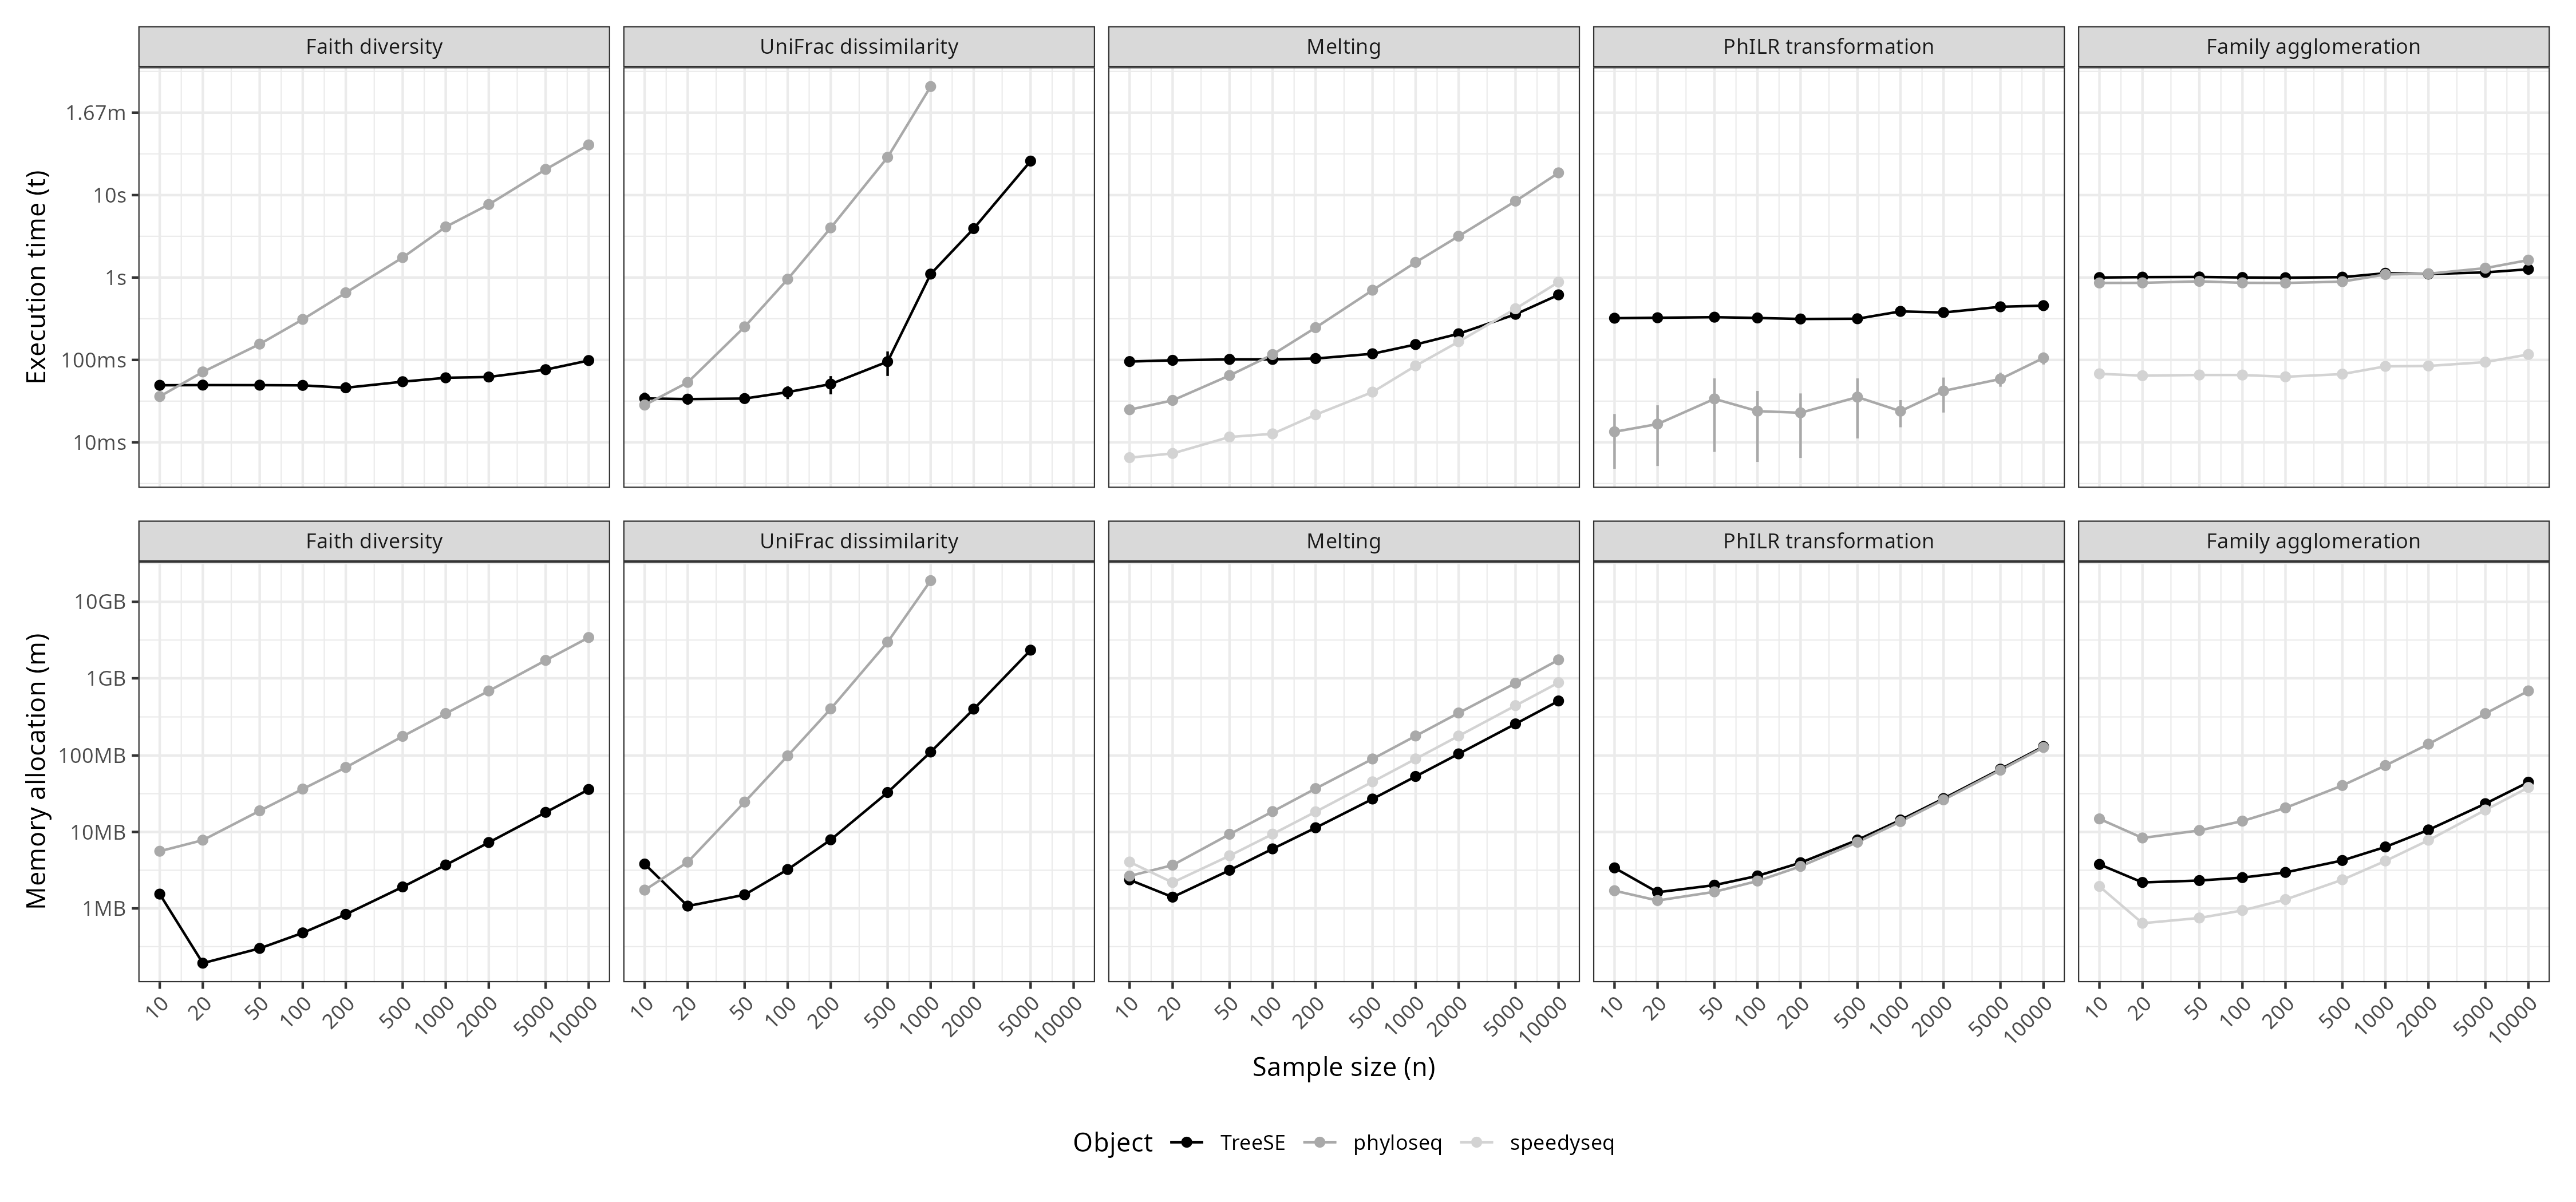
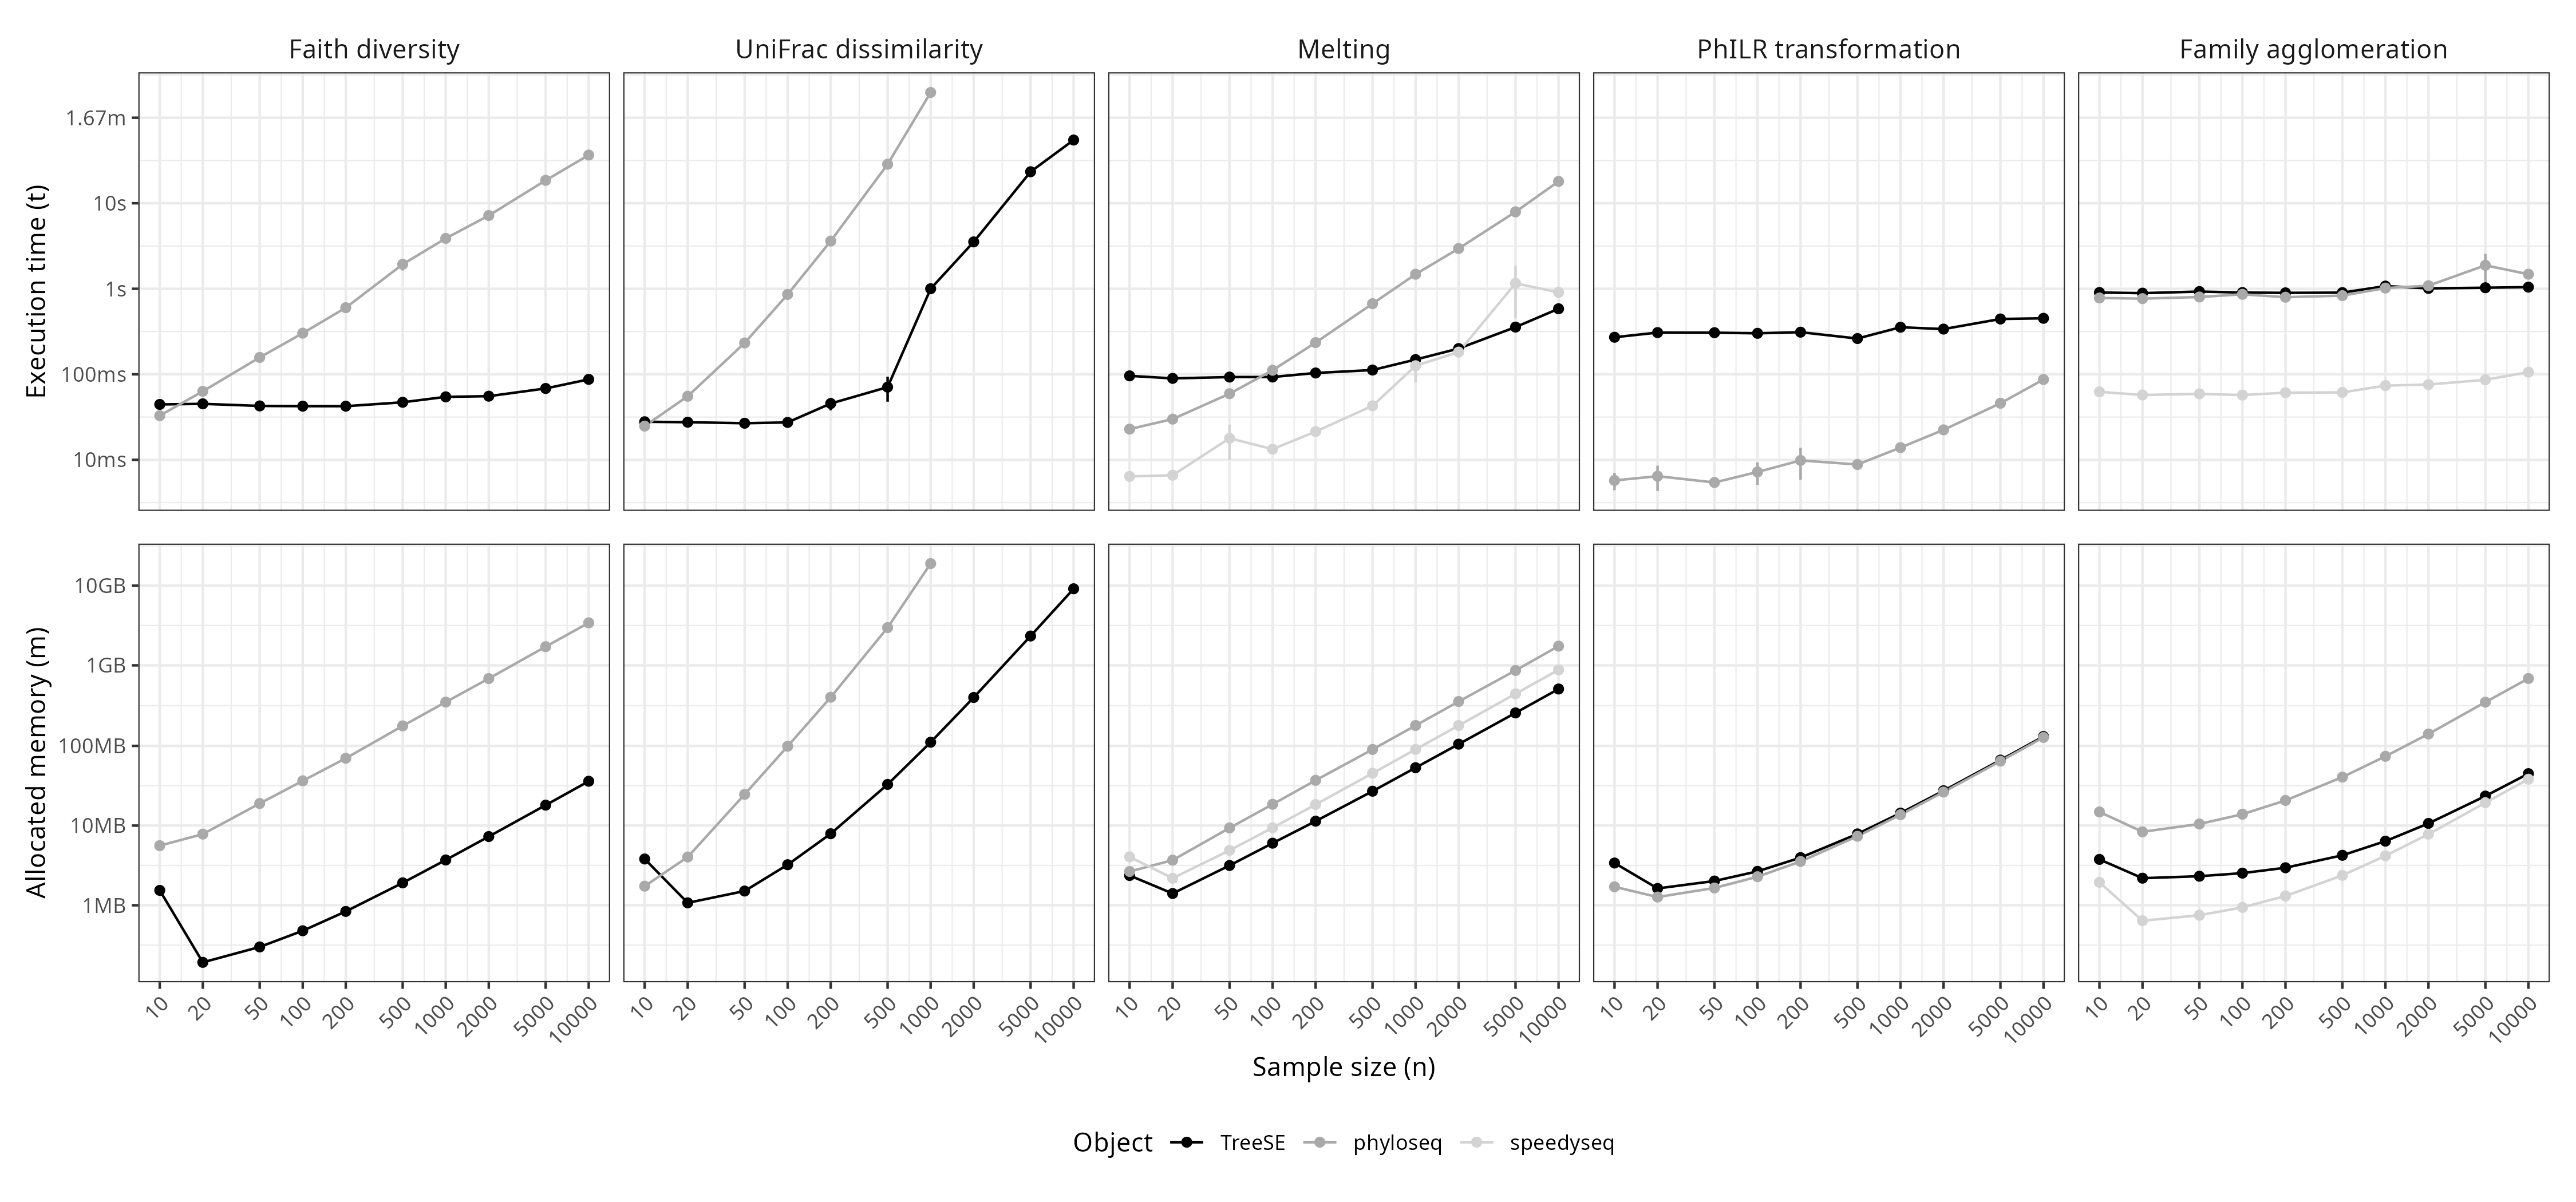
Update benchmarking figure

diff --git a/manuscript.tex b/manuscript.tex
@@ -404,9 +404,13 @@ experiment metadata are available. \textbf{(b) MultiAssayExperiment
 }
 
 \caption{\label{fig-benchmarking}\textbf{Benchmarking mia/TreeSE against
-phyloseq and speedyseq.} The TreeSE ecosystem outperforms phyloseq
-overall. While speedyseq is faster in certain operations, TreeSE scales
-more efficiently in both memory usage and computation time.}
+phyloseq and speedyseq.} TreeSE, phyloseq and speedyseq were benchmarked
+for five common analytical operations applied to random subsets of
+samples from the GrieneisenTSData experiment \citep{Grieneisen2021}.
+Overall, the TreeSE approach outperforms phyloseq. While speedyseq is
+faster in certain operations, TreeSE scales more efficiently in both
+execution time (t) and allocated memory (m) as sample size (n)
+increases.}
 
 \end{figure}%
 
@@ -980,7 +984,7 @@ versioning, portability across operating platforms, quality control
 (e.g.~unit testing, continuous integration), usability (APIs), and
 robustness (deprecation mechanisms), and a biannual release cycle.
 During the past two decades Bioconductor has grown into a repository of
-2,300 actively maintained software packages, of which 57 are classified
+2,300 actively maintained software packages, of which 53 are classified
 under the Microbiome Bioc task view. In order to enjoy the benefits of
 automation while maintaining flexibility, data scientists routinely
 remix open-source software into custom workflows. However, the lack of